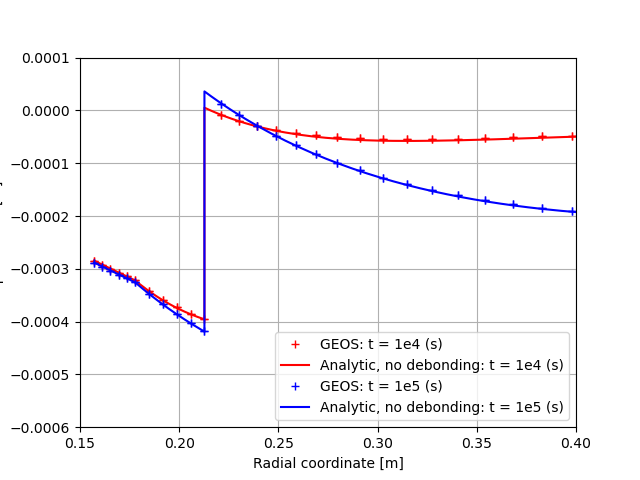
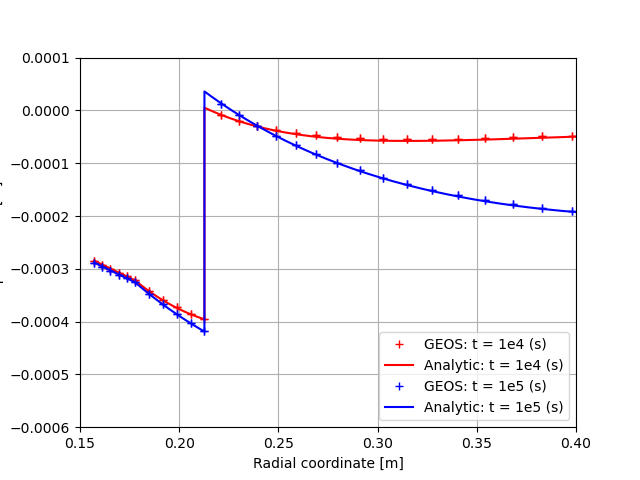
update python script and fig

diff --git a/src/docs/sphinx/advancedExamples/validationStudies/wellboreProblems/casedContactThermoElasticWellbore/thermoElastic_casedContactWellbore_displacement.py b/src/docs/sphinx/advancedExamples/validationStudies/wellboreProblems/casedContactThermoElasticWellbore/thermoElastic_casedContactWellbore_displacement.py
@@ -49,7 +49,7 @@ def main():
 	plt.plot( displacement_radial_analytic_1e4s[:,0],
 		      displacement_radial_analytic_1e4s[:,1],
 		      'r-',
-		      label='Analytic, no debonding: t = 1e4 (s)')
+		      label='Analytic: t = 1e4 (s)')
 	
 	# Plot radial displacement at 1e5 (s)
 	plt.plot( rCoord,
@@ -60,7 +60,7 @@ def main():
 	plt.plot( displacement_radial_analytic_1e5s[:,0],
 		      displacement_radial_analytic_1e5s[:,1],
 		      'b-',
-		      label='Analytic, no debonding: t = 1e5 (s)')
+		      label='Analytic: t = 1e5 (s)')
 	
 	plt.grid()
 	plt.ylabel(r'Displacement [m]')
